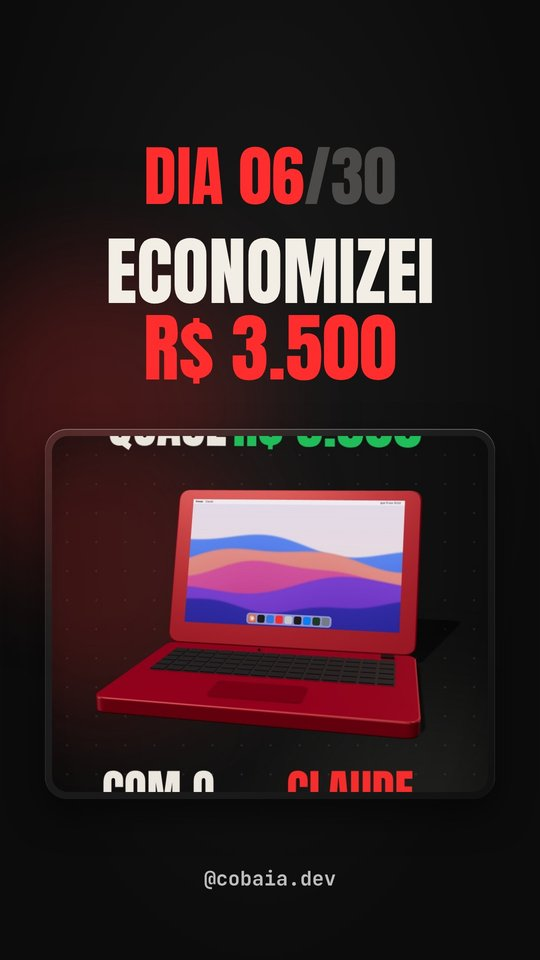
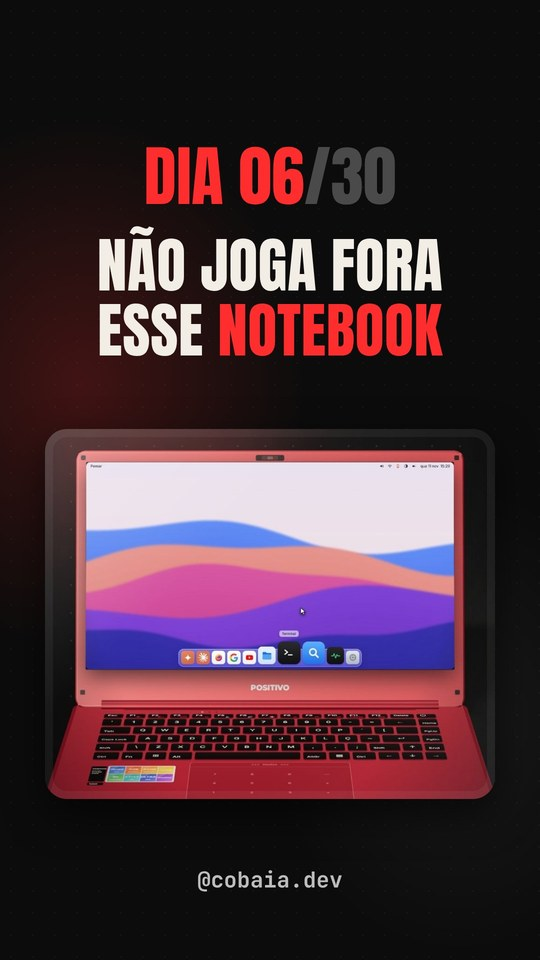
Dia 6: tutorial completo (Debian 13 + Claude Code), capa atual e notebook 3D (#4)
Claude-Session: https://claude.ai/code/session_018kX4KLp9deRg5esMpBJEE9

diff --git a/notebook/index.html b/notebook/index.html
@@ -4,13 +4,13 @@
 <meta charset="utf-8">
 <meta name="viewport" content="width=device-width,initial-scale=1,viewport-fit=cover">
 <title>Ressuscitei um notebook velho com o Claude · Dia 06 · @cobaia.dev</title>
-<meta name="description" content="O guia pra reviver um notebook velho com um Linux leve e o Claude, com os pedidos prontos pra copiar.">
+<meta name="description" content="O guia pra reviver um notebook velho com um Debian 13 e o Claude Code, do pendrive à interface, com os pedidos prontos pra copiar.">
 <meta name="theme-color" content="#0c0c0c">
 <link rel="canonical" href="https://cobaia-dev.vercel.app/notebook">
 <meta property="og:type" content="article">
 <meta property="og:site_name" content="@cobaia.dev">
 <meta property="og:title" content="Ressuscitei um notebook velho com o Claude · Dia 06 · @cobaia.dev">
-<meta property="og:description" content="O guia pra reviver um notebook velho com um Linux leve e o Claude, com os pedidos prontos pra copiar.">
+<meta property="og:description" content="O guia pra reviver um notebook velho com um Debian 13 e o Claude Code, do pendrive à interface, com os pedidos prontos pra copiar.">
 <meta property="og:url" content="https://cobaia-dev.vercel.app/notebook">
 <meta property="og:image" content="https://cobaia-dev.vercel.app/assets/og/dia06.png">
 <meta property="og:image:width" content="1200"><meta property="og:image:height" content="630">
@@ -38,8 +38,8 @@
     <div><span class="badge">DIA 06/30</span><span class="kw">você comentou <b>NOTEBOOK</b></span></div>
     <p class="kick">o notebook que parecia lixo</p>
     <h1>Ressuscitei um <span class="r">notebook velho</span> com o Claude</h1>
-    <p class="lede">Um notebook que não ligava e, depois, era lento demais. Com o Claude, ele virou uma máquina rápida. Aqui está <b>o passo a passo, os números e os pedidos prontos pra copiar</b>.</p>
-    <div class="meta"><span>leitura de 5 min</span><span>nível: zero código</span><span>precisa de um pendrive</span></div>
+    <p class="lede">Um notebook que não aguentava abrir um app virou uma máquina rápida e bonita. Aqui está <b>o jeito mais curto de fazer o mesmo</b>: você prepara o pendrive, instala o Debian 13 e deixa o Claude cuidar do resto.</p>
+    <div class="meta"><span>leitura de 8 min</span><span>nível: zero código</span><span>precisa de um pendrive</span></div>
   </div>
   <div class="phone glass">
     <img src="../assets/img/capa-dia06.jpg" alt="Capa do vídeo do Dia 6" width="540" height="960">
@@ -50,17 +50,18 @@
   <p class="eyebrow">em 30 segundos</p>
   <h2 id="t1">O resumo do vídeo</h2>
   <div class="tldr">
-    <div class="glass rv"><span class="ic">01</span><p>Notebook que "não liga" pode ser <b>só a bateria descarregada demais</b>. Antes de jogar fora, teste.</p></div>
-    <div class="glass rv rv-d1"><span class="ic">02</span><p>Ele era lento porque o sistema vem cheio de coisa rodando escondida. A saída foi <b>instalar um Linux leve do zero</b>.</p></div>
-    <div class="glass rv rv-d2"><span class="ic">03</span><p>O Claude guiou cada passo, do pendrive à interface. Quando travava, eu <b>descrevia o erro ou mandava foto da tela</b>.</p></div>
+    <div class="glass rv"><span class="ic">01</span><p>Notebook que "não liga" pode ser só a bateria descarregada demais. Teste antes de jogar fora.</p></div>
+    <div class="glass rv rv-d1"><span class="ic">02</span><p>Você só prepara o pendrive e instala o Debian 13 mínimo. É a única parte que fica na sua mão.</p></div>
+    <div class="glass rv rv-d2"><span class="ic">03</span><p>Com o sistema de pé, instala o Claude Code no próprio notebook. Ele monta a interface, a identidade visual e os apps.</p></div>
   </div>
+  <figure class="rv" style="margin:28px 0 0"><img src="../assets/img/notebook-3d.jpg" alt="Notebook Positivo vermelho em 3D com o Claude Code aberto no terminal" width="1200" height="800" loading="lazy" style="width:100%;height:auto;border-radius:24px;display:block"><figcaption class="note">// o meu notebook, com o Claude Code rodando dentro dele</figcaption></figure>
 </section>
 
 <section aria-labelledby="t2">
   <div class="read">
     <p class="eyebrow">passo zero</p>
     <h2 id="t2" class="rv">Antes de jogar fora, <span class="r">tente isso</span></h2>
-    <p class="rv">Notebook parado por muito tempo pode estar com a bateria em descarga profunda. Parece morto, mas não está. Faça nesta ordem:</p>
+    <p class="rv">Notebook parado por muito tempo pode estar com a bateria em descarga profunda. Parece morto, mas ainda tem conserto. Faça nesta ordem:</p>
     <ol class="guide">
       <li class="glass rv"><span class="gn">1</span><div><b>Ligue o carregador e espere</b><span class="d">Deixe carregando de 1 a 2 horas antes de tentar ligar.</span></div></li>
       <li class="glass rv"><span class="gn">2</span><div><b>Segure o botão de ligar por 30 a 60 segundos</b><span class="d">Com o carregador ligado. Depois solte e aperte uma vez.</span></div></li>
@@ -75,10 +76,11 @@
     <p class="eyebrow">o que você precisa</p>
     <h2 id="t3" class="rv">A lista de <span class="r">materiais</span></h2>
     <ul class="rv" style="padding-left:20px;display:grid;gap:8px">
-      <li>O notebook velho.</li>
+      <li>O notebook velho, de preferência com 4 GB de memória ou mais.</li>
       <li>Um pendrive de 8 GB ou mais.</li>
-      <li>Outro computador, só para baixar o sistema.</li>
-      <li>O Claude, no app do Claude ou no Claude Code.</li>
+      <li>Outro computador, só para baixar o sistema e gravar o pendrive.</li>
+      <li>Internet no notebook, por cabo, Wi-Fi ou o celular ligado por USB.</li>
+      <li>Uma conta paga do Claude para usar o Claude Code. Eu usei o plano de R$ 100 por mês.</li>
     </ul>
   </div>
 </section>
@@ -87,7 +89,7 @@
   <div class="read">
     <p class="eyebrow">o problema</p>
     <h2 id="t4" class="rv">Por que ele ficou <span class="r">lento</span></h2>
-    <p class="rv">Os sistemas atuais vêm cheios de apps e serviços rodando escondidos. Num notebook velho, isso pesa. O caminho foi instalar um Linux leve do zero e montar só o que eu precisava. No experimento, usei o Debian 13 mínimo, sem interface nenhuma.</p>
+    <p class="rv">Os sistemas atuais vêm cheios de apps e serviços rodando escondidos, e num notebook velho isso pesa. A saída foi apagar tudo e instalar um Linux leve do zero. Escolhi o Debian 13, sem interface nenhuma, e deixei o Claude montar só o que eu precisava.</p>
   </div>
 </section>
 
@@ -95,11 +97,16 @@
   <div class="read">
     <p class="eyebrow">o passo a passo</p>
     <h2 id="t5" class="rv">Do pendrive ao <em>sistema novo</em></h2>
+    <p class="rv">Este é o caminho mais curto. No vídeo eu dei muitas voltas até chegar aqui, e você pode pular todas elas.</p>
     <div class="steps">
-      <div class="step rv"><span class="n">1</span><div><h3>Baixe a imagem do sistema e confira o hash</h3><p>Baixe no outro computador. O hash SHA256 prova que o arquivo veio inteiro e sem alteração. Peça ao Claude pra explicar como conferir no seu computador.</p></div></div>
-      <div class="step rv"><span class="n">2</span><div><h3>Grave no pendrive</h3><p>Use o Ventoy ou um programa parecido. O Claude explica como usar o que você escolher.</p></div></div>
-      <div class="step rv"><span class="n">3</span><div><h3>Instale no notebook</h3><p>Ligue pelo pendrive e siga a instalação com o Claude do lado. A conversa fica aberta no outro computador.</p></div></div>
-      <div class="step rv"><span class="n">4</span><div><h3>Travou? Conte pro Claude</h3><p>Descreva o erro ou mande uma foto da tela. Ele diz o que tentar. No meu caso, o Wi-Fi travava o sistema, e a solução foi um kernel mais novo.</p></div></div>
+      <div class="step rv"><span class="n">1</span><div><h3>Faça backup de tudo</h3><p>Instalar do zero apaga o disco. Copie fotos e documentos para outro lugar antes de começar.</p></div></div>
+      <div class="step rv"><span class="n">2</span><div><h3>Baixe o Debian 13</h3><p>No outro computador, entre em debian.org, abra a página de download e pegue a imagem de instalação pela internet (netinst) para 64 bits. É um arquivo .iso pequeno. O Claude confere o hash SHA256 com você, se quiser garantir que o arquivo veio inteiro.</p></div></div>
+      <div class="step rv"><span class="n">3</span><div><h3>Grave o pendrive bootável</h3><p>Use o balenaEtcher ou o Rufus. Abra o programa, escolha o arquivo .iso, escolha o pendrive e clique em gravar. Tudo o que estava no pendrive some.</p></div></div>
+      <div class="step rv"><span class="n">4</span><div><h3>Ligue o notebook pelo pendrive</h3><p>Com o pendrive espetado, ligue o notebook e aperte a tecla do menu de boot logo no início. Costuma ser F12, F2, Esc ou Del, e muda de marca para marca. Escolha o pendrive na lista.</p></div></div>
+      <div class="step rv"><span class="n">5</span><div><h3>Instale o Debian</h3><p>Escolha a instalação normal, português do Brasil e o disco inteiro com particionamento guiado. Na tela de seleção de programas, desmarque tudo, deixando só os utilitários padrão do sistema. O Claude monta o resto depois, então o sistema fica mínimo. Se o Wi-Fi não aparecer durante a instalação, use um cabo de rede ou compartilhe a internet do celular por USB.</p></div></div>
+      <div class="step rv"><span class="n">6</span><div><h3>Prepare o terminal</h3><p>Reinicie, tire o pendrive e entre com o usuário que você criou. Digite <code>su -</code>, coloque a senha de administrador e rode <code>apt update &amp;&amp; apt install -y curl sudo git</code>. Depois rode <code>usermod -aG sudo SEU_USUARIO</code>, saia e entre de novo.</p></div></div>
+      <div class="step rv"><span class="n">7</span><div><h3>Instale o Claude Code</h3><p>Ainda no terminal do notebook, rode <code>curl -fsSL https://claude.ai/install.sh | bash</code> e depois <code>claude</code>. Ele mostra um link: abra no celular, entre na sua conta e cole o código de volta. Se o comando <code>claude</code> não for encontrado, feche e abra o terminal.</p></div></div>
+      <div class="step rv"><span class="n">8</span><div><h3>Peça o resto ao Claude</h3><p>A partir daqui você só conversa. Peça a interface, a identidade visual, os apps e os ajustes de desempenho com os pedidos prontos mais abaixo. Quando algo travar, cole o erro na conversa.</p></div></div>
     </div>
   </div>
 </section>
@@ -107,8 +114,8 @@
 <section aria-labelledby="t6">
   <div class="read">
     <p class="eyebrow">o salto</p>
-    <h2 id="t6" class="rv">Coloque o Claude <span class="r">dentro</span> do notebook</h2>
-    <p class="rv">Com o sistema funcionando, instalei o Claude Code no terminal do próprio notebook. A partir daí, o Claude passou a configurar a máquina de dentro. Pedi a interface, e ele montou uma área de trabalho leve, com barra no topo, dock e apps próprios.</p>
+    <h2 id="t6" class="rv">Por que o Claude entra <span class="r">cedo</span></h2>
+    <p class="rv">Instalar o Claude Code logo depois do Debian evita o trabalho mais chato. Com ele rodando no próprio notebook, você deixa de caçar tutoriais para cada driver e cada configuração. Pede em português, ele executa os comandos, lê os erros e corrige. Foi assim que ele montou minha área de trabalho, com barra no topo, dock e apps próprios.</p>
   </div>
 </section>
 
@@ -130,26 +137,11 @@
     <p class="eyebrow">o que você veio buscar</p>
     <h2 id="t8" class="rv">Os pedidos prontos</h2>
     <p class="rv">Copie, troque o que está entre colchetes e cole numa conversa com o Claude.</p>
-    <div class="prompt glass rv">
-      <div class="prompt-h"><span><span class="t">Pedido 1</span> · diagnóstico</span><button class="copy" type="button" data-copy="p1">Copiar</button></div>
-      <pre id="p1">Meu notebook [modelo, ex.: Acer Aspire 5] não liga. Me ajuda a diagnosticar passo a passo, uma coisa por vez, começando pela bateria.</pre>
-    </div>
-    <div class="prompt glass rv">
-      <div class="prompt-h"><span><span class="t">Pedido 2</span> · escolher o sistema</span><button class="copy" type="button" data-copy="p2">Copiar</button></div>
-      <pre id="p2">Quero instalar um Linux leve nesse notebook com [quantidade, ex.: 4 GB] de RAM. Qual você recomenda e como faço o pendrive?</pre>
-    </div>
-    <div class="prompt glass rv">
-      <div class="prompt-h"><span><span class="t">Pedido 3</span> · quando dá erro</span><button class="copy" type="button" data-copy="p3">Copiar</button></div>
-      <pre id="p3">Deu esse erro na instalação: [cole o texto ou descreva o que aparece na tela]. O que eu faço?</pre>
-    </div>
-    <div class="prompt glass rv">
-      <div class="prompt-h"><span><span class="t">Pedido 4</span> · a interface</span><button class="copy" type="button" data-copy="p4">Copiar</button></div>
-      <pre id="p4">Monta pra mim uma área de trabalho leve, com barra no topo e dock embaixo. Faz uma coisa por vez e me avisa o que mudou.</pre>
-    </div>
-    <div class="prompt glass rv">
-      <div class="prompt-h"><span><span class="t">Pedido 5</span> · app próprio</span><button class="copy" type="button" data-copy="p5">Copiar</button></div>
-      <pre id="p5">Faz um app nativo simples que grava áudio pelo microfone. Me explica como abrir e testar.</pre>
-    </div>
+<div class="prompt glass rv"><div class="prompt-h"><span><span class="t">Pedido 1</span> · diagnóstico</span><button class="copy" type="button" data-copy="p1">Copiar</button></div><pre id="p1">Meu notebook [modelo, ex.: Acer Aspire 5] não liga. Me ajuda a diagnosticar passo a passo, uma coisa por vez, começando pela bateria.</pre></div>
+<div class="prompt glass rv"><div class="prompt-h"><span><span class="t">Pedido 2</span> · configurar o sistema</span><button class="copy" type="button" data-copy="p2">Copiar</button></div><pre id="p2">Acabei de instalar o Debian 13 mínimo neste notebook. Configura o Wi-Fi, o som, o teclado em português e o brilho da tela. Faz uma coisa por vez e me avisa o que mudou.</pre></div>
+<div class="prompt glass rv"><div class="prompt-h"><span><span class="t">Pedido 3</span> · a interface e a identidade visual</span><button class="copy" type="button" data-copy="p3">Copiar</button></div><pre id="p3">Monta pra mim uma área de trabalho leve, com barra no topo e dock embaixo. Cria uma identidade visual própria, com papel de parede, ícones e cores combinando. Faz uma coisa por vez e me avisa o que mudou.</pre></div>
+<div class="prompt glass rv"><div class="prompt-h"><span><span class="t">Pedido 4</span> · app próprio</span><button class="copy" type="button" data-copy="p4">Copiar</button></div><pre id="p4">Faz um app nativo simples que grava áudio pelo microfone. Me explica como abrir e testar.</pre></div>
+<div class="prompt glass rv"><div class="prompt-h"><span><span class="t">Pedido 5</span> · quando dá erro</span><button class="copy" type="button" data-copy="p5">Copiar</button></div><pre id="p5">Deu esse erro: [cole o texto ou descreva o que aparece na tela]. O que eu faço?</pre></div>
   </div>
 </section>
 
@@ -164,7 +156,7 @@
     <ol class="guide">
       <li class="glass rv"><span class="gn">1</span><div><b>Anote o modelo do Wi-Fi e do som antes de formatar</b><span class="d">Se algo não funcionar depois, você sabe o que pedir pro Claude procurar.</span></div></li>
       <li class="glass rv"><span class="gn">2</span><div><b>Mude uma coisa por vez</b><span class="d">Assim, se algo quebrar, você sabe qual foi a causa.</span></div></li>
-      <li class="glass rv"><span class="gn">3</span><div><b>Anote o que você mudou</b><span class="d">Uma lista simples já ajuda a voltar atrás e a explicar o problema ao Claude.</span></div></li>
+      <li class="glass rv"><span class="gn">3</span><div><b>Leia o que o Claude vai rodar antes de aceitar</b><span class="d">Ele pede sua permissão a cada comando. Se algo parecer apagar arquivos seus, pergunte o motivo antes.</span></div></li>
     </ol>
   </div>
 </section>
@@ -174,9 +166,11 @@
   <h2 id="t10" class="rv">Glossário rápido</h2>
   <dl class="gloss">
     <div class="glass rv"><dt>Linux</dt><dd>Um sistema para computador, alternativo ao que vem de fábrica. Existem versões bem leves.</dd></div>
+    <div class="glass rv rv-d1"><dt>Debian</dt><dd>Uma das versões de Linux mais antigas e estáveis. A 13 é a mais recente.</dd></div>
+    <div class="glass rv"><dt>Pendrive bootável</dt><dd>Um pendrive com o instalador gravado, que o notebook consegue iniciar antes do sistema.</dd></div>
     <div class="glass rv rv-d1"><dt>Hash SHA256</dt><dd>Uma "impressão digital" do arquivo. Se bater com a do site, o arquivo está íntegro.</dd></div>
-    <div class="glass rv"><dt>Kernel</dt><dd>O núcleo do sistema. Um kernel mais novo reconhece mais peças, como o Wi-Fi.</dd></div>
-    <div class="glass rv rv-d1"><dt>Terminal</dt><dd>A tela onde você digita comandos. É onde o Claude Code roda.</dd></div>
+    <div class="glass rv"><dt>Terminal</dt><dd>A tela onde você digita comandos. É onde o Claude Code roda.</dd></div>
+    <div class="glass rv rv-d1"><dt>Claude Code</dt><dd>O Claude dentro do terminal, capaz de rodar comandos e mexer nos arquivos do computador. Exige uma conta paga.</dd></div>
   </dl>
 </section>
 <section class="rv" aria-labelledby="nx"><p class="eyebrow">continua a série</p><h2 id="nx">Os outros experimentos</h2><div class="next"><a class="card glass" href="../mcp/"><span class="d">← DIA 05 · palavra MCP</span><div class="t">O Claude montou meu post no Canva</div><p>Os pedidos prontos pra copiar e usar o Claude com o Canva via MCP, e o passo a passo pra ligar sem programar.</p></a><div class="card glass red locked"><span class="d">DIA 07 · em breve</span><div class="t">Próximo experimento</div><p>Sai às 12h. Segue o @cobaia.dev pra ver primeiro.</p></div></div></section><div class="cta rv">

diff --git a/src/dias/notebook.html b/src/dias/notebook.html
@@ -1,20 +1,21 @@
-{"titulo":"Ressuscitei um notebook velho com o Claude","kicker":"o notebook que parecia lixo","h1":"Ressuscitei um <span class=\"r\">notebook velho</span> com o Claude","lede":"Um notebook que não ligava e, depois, era lento demais. Com o Claude, ele virou uma máquina rápida. Aqui está <b>o passo a passo, os números e os pedidos prontos pra copiar</b>.","meta":["leitura de 5 min","nível: zero código","precisa de um pendrive"]}
+{"titulo":"Ressuscitei um notebook velho com o Claude","kicker":"o notebook que parecia lixo","h1":"Ressuscitei um <span class=\"r\">notebook velho</span> com o Claude","lede":"Um notebook que não aguentava abrir um app virou uma máquina rápida e bonita. Aqui está <b>o jeito mais curto de fazer o mesmo</b>: você prepara o pendrive, instala o Debian 13 e deixa o Claude cuidar do resto.","meta":["leitura de 8 min","nível: zero código","precisa de um pendrive"]}
 ---
 <section aria-labelledby="t1">
   <p class="eyebrow">em 30 segundos</p>
   <h2 id="t1">O resumo do vídeo</h2>
   <div class="tldr">
-    <div class="glass rv"><span class="ic">01</span><p>Notebook que "não liga" pode ser <b>só a bateria descarregada demais</b>. Antes de jogar fora, teste.</p></div>
-    <div class="glass rv rv-d1"><span class="ic">02</span><p>Ele era lento porque o sistema vem cheio de coisa rodando escondida. A saída foi <b>instalar um Linux leve do zero</b>.</p></div>
-    <div class="glass rv rv-d2"><span class="ic">03</span><p>O Claude guiou cada passo, do pendrive à interface. Quando travava, eu <b>descrevia o erro ou mandava foto da tela</b>.</p></div>
+    <div class="glass rv"><span class="ic">01</span><p>Notebook que "não liga" pode ser só a bateria descarregada demais. Teste antes de jogar fora.</p></div>
+    <div class="glass rv rv-d1"><span class="ic">02</span><p>Você só prepara o pendrive e instala o Debian 13 mínimo. É a única parte que fica na sua mão.</p></div>
+    <div class="glass rv rv-d2"><span class="ic">03</span><p>Com o sistema de pé, instala o Claude Code no próprio notebook. Ele monta a interface, a identidade visual e os apps.</p></div>
   </div>
+  <figure class="rv" style="margin:28px 0 0"><img src="../assets/img/notebook-3d.jpg" alt="Notebook Positivo vermelho em 3D com o Claude Code aberto no terminal" width="1200" height="800" loading="lazy" style="width:100%;height:auto;border-radius:24px;display:block"><figcaption class="note">// o meu notebook, com o Claude Code rodando dentro dele</figcaption></figure>
 </section>
 
 <section aria-labelledby="t2">
   <div class="read">
     <p class="eyebrow">passo zero</p>
     <h2 id="t2" class="rv">Antes de jogar fora, <span class="r">tente isso</span></h2>
-    <p class="rv">Notebook parado por muito tempo pode estar com a bateria em descarga profunda. Parece morto, mas não está. Faça nesta ordem:</p>
+    <p class="rv">Notebook parado por muito tempo pode estar com a bateria em descarga profunda. Parece morto, mas ainda tem conserto. Faça nesta ordem:</p>
     <ol class="guide">
       <li class="glass rv"><span class="gn">1</span><div><b>Ligue o carregador e espere</b><span class="d">Deixe carregando de 1 a 2 horas antes de tentar ligar.</span></div></li>
       <li class="glass rv"><span class="gn">2</span><div><b>Segure o botão de ligar por 30 a 60 segundos</b><span class="d">Com o carregador ligado. Depois solte e aperte uma vez.</span></div></li>
@@ -29,10 +30,11 @@
     <p class="eyebrow">o que você precisa</p>
     <h2 id="t3" class="rv">A lista de <span class="r">materiais</span></h2>
     <ul class="rv" style="padding-left:20px;display:grid;gap:8px">
-      <li>O notebook velho.</li>
+      <li>O notebook velho, de preferência com 4 GB de memória ou mais.</li>
       <li>Um pendrive de 8 GB ou mais.</li>
-      <li>Outro computador, só para baixar o sistema.</li>
-      <li>O Claude, no app do Claude ou no Claude Code.</li>
+      <li>Outro computador, só para baixar o sistema e gravar o pendrive.</li>
+      <li>Internet no notebook, por cabo, Wi-Fi ou o celular ligado por USB.</li>
+      <li>Uma conta paga do Claude para usar o Claude Code. Eu usei o plano de R$ 100 por mês.</li>
     </ul>
   </div>
 </section>
@@ -41,7 +43,7 @@
   <div class="read">
     <p class="eyebrow">o problema</p>
     <h2 id="t4" class="rv">Por que ele ficou <span class="r">lento</span></h2>
-    <p class="rv">Os sistemas atuais vêm cheios de apps e serviços rodando escondidos. Num notebook velho, isso pesa. O caminho foi instalar um Linux leve do zero e montar só o que eu precisava. No experimento, usei o Debian 13 mínimo, sem interface nenhuma.</p>
+    <p class="rv">Os sistemas atuais vêm cheios de apps e serviços rodando escondidos, e num notebook velho isso pesa. A saída foi apagar tudo e instalar um Linux leve do zero. Escolhi o Debian 13, sem interface nenhuma, e deixei o Claude montar só o que eu precisava.</p>
   </div>
 </section>
 
@@ -49,11 +51,16 @@
   <div class="read">
     <p class="eyebrow">o passo a passo</p>
     <h2 id="t5" class="rv">Do pendrive ao <em>sistema novo</em></h2>
+    <p class="rv">Este é o caminho mais curto. No vídeo eu dei muitas voltas até chegar aqui, e você pode pular todas elas.</p>
     <div class="steps">
-      <div class="step rv"><span class="n">1</span><div><h3>Baixe a imagem do sistema e confira o hash</h3><p>Baixe no outro computador. O hash SHA256 prova que o arquivo veio inteiro e sem alteração. Peça ao Claude pra explicar como conferir no seu computador.</p></div></div>
-      <div class="step rv"><span class="n">2</span><div><h3>Grave no pendrive</h3><p>Use o Ventoy ou um programa parecido. O Claude explica como usar o que você escolher.</p></div></div>
-      <div class="step rv"><span class="n">3</span><div><h3>Instale no notebook</h3><p>Ligue pelo pendrive e siga a instalação com o Claude do lado. A conversa fica aberta no outro computador.</p></div></div>
-      <div class="step rv"><span class="n">4</span><div><h3>Travou? Conte pro Claude</h3><p>Descreva o erro ou mande uma foto da tela. Ele diz o que tentar. No meu caso, o Wi-Fi travava o sistema, e a solução foi um kernel mais novo.</p></div></div>
+      <div class="step rv"><span class="n">1</span><div><h3>Faça backup de tudo</h3><p>Instalar do zero apaga o disco. Copie fotos e documentos para outro lugar antes de começar.</p></div></div>
+      <div class="step rv"><span class="n">2</span><div><h3>Baixe o Debian 13</h3><p>No outro computador, entre em debian.org, abra a página de download e pegue a imagem de instalação pela internet (netinst) para 64 bits. É um arquivo .iso pequeno. O Claude confere o hash SHA256 com você, se quiser garantir que o arquivo veio inteiro.</p></div></div>
+      <div class="step rv"><span class="n">3</span><div><h3>Grave o pendrive bootável</h3><p>Use o balenaEtcher ou o Rufus. Abra o programa, escolha o arquivo .iso, escolha o pendrive e clique em gravar. Tudo o que estava no pendrive some.</p></div></div>
+      <div class="step rv"><span class="n">4</span><div><h3>Ligue o notebook pelo pendrive</h3><p>Com o pendrive espetado, ligue o notebook e aperte a tecla do menu de boot logo no início. Costuma ser F12, F2, Esc ou Del, e muda de marca para marca. Escolha o pendrive na lista.</p></div></div>
+      <div class="step rv"><span class="n">5</span><div><h3>Instale o Debian</h3><p>Escolha a instalação normal, português do Brasil e o disco inteiro com particionamento guiado. Na tela de seleção de programas, desmarque tudo, deixando só os utilitários padrão do sistema. O Claude monta o resto depois, então o sistema fica mínimo. Se o Wi-Fi não aparecer durante a instalação, use um cabo de rede ou compartilhe a internet do celular por USB.</p></div></div>
+      <div class="step rv"><span class="n">6</span><div><h3>Prepare o terminal</h3><p>Reinicie, tire o pendrive e entre com o usuário que você criou. Digite <code>su -</code>, coloque a senha de administrador e rode <code>apt update &amp;&amp; apt install -y curl sudo git</code>. Depois rode <code>usermod -aG sudo SEU_USUARIO</code>, saia e entre de novo.</p></div></div>
+      <div class="step rv"><span class="n">7</span><div><h3>Instale o Claude Code</h3><p>Ainda no terminal do notebook, rode <code>curl -fsSL https://claude.ai/install.sh | bash</code> e depois <code>claude</code>. Ele mostra um link: abra no celular, entre na sua conta e cole o código de volta. Se o comando <code>claude</code> não for encontrado, feche e abra o terminal.</p></div></div>
+      <div class="step rv"><span class="n">8</span><div><h3>Peça o resto ao Claude</h3><p>A partir daqui você só conversa. Peça a interface, a identidade visual, os apps e os ajustes de desempenho com os pedidos prontos mais abaixo. Quando algo travar, cole o erro na conversa.</p></div></div>
     </div>
   </div>
 </section>
@@ -61,8 +68,8 @@
 <section aria-labelledby="t6">
   <div class="read">
     <p class="eyebrow">o salto</p>
-    <h2 id="t6" class="rv">Coloque o Claude <span class="r">dentro</span> do notebook</h2>
-    <p class="rv">Com o sistema funcionando, instalei o Claude Code no terminal do próprio notebook. A partir daí, o Claude passou a configurar a máquina de dentro. Pedi a interface, e ele montou uma área de trabalho leve, com barra no topo, dock e apps próprios.</p>
+    <h2 id="t6" class="rv">Por que o Claude entra <span class="r">cedo</span></h2>
+    <p class="rv">Instalar o Claude Code logo depois do Debian evita o trabalho mais chato. Com ele rodando no próprio notebook, você deixa de caçar tutoriais para cada driver e cada configuração. Pede em português, ele executa os comandos, lê os erros e corrige. Foi assim que ele montou minha área de trabalho, com barra no topo, dock e apps próprios.</p>
   </div>
 </section>
 
@@ -84,26 +91,11 @@
     <p class="eyebrow">o que você veio buscar</p>
     <h2 id="t8" class="rv">Os pedidos prontos</h2>
     <p class="rv">Copie, troque o que está entre colchetes e cole numa conversa com o Claude.</p>
-    <div class="prompt glass rv">
-      <div class="prompt-h"><span><span class="t">Pedido 1</span> · diagnóstico</span><button class="copy" type="button" data-copy="p1">Copiar</button></div>
-      <pre id="p1">Meu notebook [modelo, ex.: Acer Aspire 5] não liga. Me ajuda a diagnosticar passo a passo, uma coisa por vez, começando pela bateria.</pre>
-    </div>
-    <div class="prompt glass rv">
-      <div class="prompt-h"><span><span class="t">Pedido 2</span> · escolher o sistema</span><button class="copy" type="button" data-copy="p2">Copiar</button></div>
-      <pre id="p2">Quero instalar um Linux leve nesse notebook com [quantidade, ex.: 4 GB] de RAM. Qual você recomenda e como faço o pendrive?</pre>
-    </div>
-    <div class="prompt glass rv">
-      <div class="prompt-h"><span><span class="t">Pedido 3</span> · quando dá erro</span><button class="copy" type="button" data-copy="p3">Copiar</button></div>
-      <pre id="p3">Deu esse erro na instalação: [cole o texto ou descreva o que aparece na tela]. O que eu faço?</pre>
-    </div>
-    <div class="prompt glass rv">
-      <div class="prompt-h"><span><span class="t">Pedido 4</span> · a interface</span><button class="copy" type="button" data-copy="p4">Copiar</button></div>
-      <pre id="p4">Monta pra mim uma área de trabalho leve, com barra no topo e dock embaixo. Faz uma coisa por vez e me avisa o que mudou.</pre>
-    </div>
-    <div class="prompt glass rv">
-      <div class="prompt-h"><span><span class="t">Pedido 5</span> · app próprio</span><button class="copy" type="button" data-copy="p5">Copiar</button></div>
-      <pre id="p5">Faz um app nativo simples que grava áudio pelo microfone. Me explica como abrir e testar.</pre>
-    </div>
+<div class="prompt glass rv"><div class="prompt-h"><span><span class="t">Pedido 1</span> · diagnóstico</span><button class="copy" type="button" data-copy="p1">Copiar</button></div><pre id="p1">Meu notebook [modelo, ex.: Acer Aspire 5] não liga. Me ajuda a diagnosticar passo a passo, uma coisa por vez, começando pela bateria.</pre></div>
+<div class="prompt glass rv"><div class="prompt-h"><span><span class="t">Pedido 2</span> · configurar o sistema</span><button class="copy" type="button" data-copy="p2">Copiar</button></div><pre id="p2">Acabei de instalar o Debian 13 mínimo neste notebook. Configura o Wi-Fi, o som, o teclado em português e o brilho da tela. Faz uma coisa por vez e me avisa o que mudou.</pre></div>
+<div class="prompt glass rv"><div class="prompt-h"><span><span class="t">Pedido 3</span> · a interface e a identidade visual</span><button class="copy" type="button" data-copy="p3">Copiar</button></div><pre id="p3">Monta pra mim uma área de trabalho leve, com barra no topo e dock embaixo. Cria uma identidade visual própria, com papel de parede, ícones e cores combinando. Faz uma coisa por vez e me avisa o que mudou.</pre></div>
+<div class="prompt glass rv"><div class="prompt-h"><span><span class="t">Pedido 4</span> · app próprio</span><button class="copy" type="button" data-copy="p4">Copiar</button></div><pre id="p4">Faz um app nativo simples que grava áudio pelo microfone. Me explica como abrir e testar.</pre></div>
+<div class="prompt glass rv"><div class="prompt-h"><span><span class="t">Pedido 5</span> · quando dá erro</span><button class="copy" type="button" data-copy="p5">Copiar</button></div><pre id="p5">Deu esse erro: [cole o texto ou descreva o que aparece na tela]. O que eu faço?</pre></div>
   </div>
 </section>
 
@@ -118,7 +110,7 @@
     <ol class="guide">
       <li class="glass rv"><span class="gn">1</span><div><b>Anote o modelo do Wi-Fi e do som antes de formatar</b><span class="d">Se algo não funcionar depois, você sabe o que pedir pro Claude procurar.</span></div></li>
       <li class="glass rv"><span class="gn">2</span><div><b>Mude uma coisa por vez</b><span class="d">Assim, se algo quebrar, você sabe qual foi a causa.</span></div></li>
-      <li class="glass rv"><span class="gn">3</span><div><b>Anote o que você mudou</b><span class="d">Uma lista simples já ajuda a voltar atrás e a explicar o problema ao Claude.</span></div></li>
+      <li class="glass rv"><span class="gn">3</span><div><b>Leia o que o Claude vai rodar antes de aceitar</b><span class="d">Ele pede sua permissão a cada comando. Se algo parecer apagar arquivos seus, pergunte o motivo antes.</span></div></li>
     </ol>
   </div>
 </section>
@@ -128,8 +120,10 @@
   <h2 id="t10" class="rv">Glossário rápido</h2>
   <dl class="gloss">
     <div class="glass rv"><dt>Linux</dt><dd>Um sistema para computador, alternativo ao que vem de fábrica. Existem versões bem leves.</dd></div>
+    <div class="glass rv rv-d1"><dt>Debian</dt><dd>Uma das versões de Linux mais antigas e estáveis. A 13 é a mais recente.</dd></div>
+    <div class="glass rv"><dt>Pendrive bootável</dt><dd>Um pendrive com o instalador gravado, que o notebook consegue iniciar antes do sistema.</dd></div>
     <div class="glass rv rv-d1"><dt>Hash SHA256</dt><dd>Uma "impressão digital" do arquivo. Se bater com a do site, o arquivo está íntegro.</dd></div>
-    <div class="glass rv"><dt>Kernel</dt><dd>O núcleo do sistema. Um kernel mais novo reconhece mais peças, como o Wi-Fi.</dd></div>
-    <div class="glass rv rv-d1"><dt>Terminal</dt><dd>A tela onde você digita comandos. É onde o Claude Code roda.</dd></div>
+    <div class="glass rv"><dt>Terminal</dt><dd>A tela onde você digita comandos. É onde o Claude Code roda.</dd></div>
+    <div class="glass rv rv-d1"><dt>Claude Code</dt><dd>O Claude dentro do terminal, capaz de rodar comandos e mexer nos arquivos do computador. Exige uma conta paga.</dd></div>
   </dl>
 </section>

diff --git a/mcp/index.html b/mcp/index.html
@@ -210,7 +210,7 @@
   [['IAs',LX],['APPS',RX]].forEach(function(h){var t=el('text',{x:h[1],y:40,'text-anchor':'middle',fill:'#a7a29a','font-family':'JetBrains Mono,monospace','font-size':12,'font-weight':700,'letter-spacing':2});t.textContent=h[0];ND.appendChild(t)});
 })();
 </script>
-<section class="rv" aria-labelledby="nx"><p class="eyebrow">continua a série</p><h2 id="nx">Os outros experimentos</h2><div class="next"><a class="card glass" href="../limpar/"><span class="d">← DIA 04 · palavra LIMPAR</span><div class="t">19 mil e-mails limpos</div><p>Os dois prompts pra limpar a caixa de entrada e receber o resumo da noite com o Claude no Gmail e na Agenda.</p></a><a class="card glass red" href="../notebook/" data-lock-day="6"><span class="d" data-when="DIA 06 · libera às 12h">DIA 06 · palavra NOTEBOOK →</span><div class="t">Ressuscitei um notebook velho com o Claude</div><p>O guia pra reviver um notebook velho com um Linux leve e o Claude, com os pedidos prontos pra copiar.</p></a></div></section><div class="cta rv">
+<section class="rv" aria-labelledby="nx"><p class="eyebrow">continua a série</p><h2 id="nx">Os outros experimentos</h2><div class="next"><a class="card glass" href="../limpar/"><span class="d">← DIA 04 · palavra LIMPAR</span><div class="t">19 mil e-mails limpos</div><p>Os dois prompts pra limpar a caixa de entrada e receber o resumo da noite com o Claude no Gmail e na Agenda.</p></a><a class="card glass red" href="../notebook/" data-lock-day="6"><span class="d" data-when="DIA 06 · libera às 12h">DIA 06 · palavra NOTEBOOK →</span><div class="t">Ressuscitei um notebook velho com o Claude</div><p>O guia pra reviver um notebook velho com um Debian 13 e o Claude Code, do pendrive à interface, com os pedidos prontos pra copiar.</p></a></div></section><div class="cta rv">
   <img src="../assets/img/avatar.jpg" alt="Avatar do Cobaia, um rato de laboratório" width="96" height="96">
   <h2>30 dias, 30 experimentos</h2>
   <p class="lede">Eu testo antes de você. Segue pra não perder o próximo.</p>

diff --git a/src/build.py b/src/build.py
@@ -29,7 +29,7 @@ DIAS = [
     dict(n=5, slug="mcp", kw="MCP", curto="O Claude montou meu post no Canva",
          desc="Os pedidos prontos pra copiar e usar o Claude com o Canva via MCP, e o passo a passo pra ligar sem programar."),
     dict(n=6, slug="notebook", kw="NOTEBOOK", curto="Ressuscitei um notebook velho com o Claude",
-         desc="O guia pra reviver um notebook velho com um Linux leve e o Claude, com os pedidos prontos pra copiar."),
+         desc="O guia pra reviver um notebook velho com um Debian 13 e o Claude Code, do pendrive à interface, com os pedidos prontos pra copiar."),
 ]
 TOTAL = 30
 
